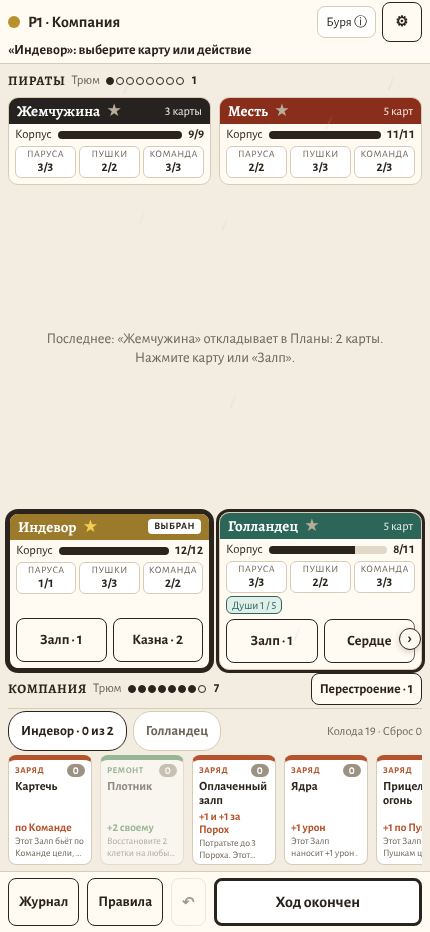
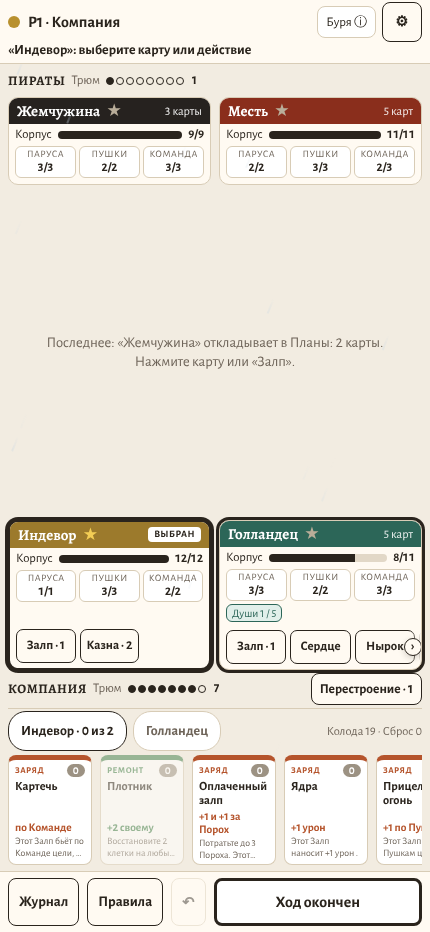
E2E: the plank buttons on a phone — 34 px seen, a 44 px press zone, one size, three in sight; screenshots, PROGRESS.md
The check «the text is whole» measures the box of the text in the button: scrollWidth also counts the invisible
press zone.

Claude-Session: https://claude.ai/code/session_01WJErPw4935JGRtmumQ5kGj

Changed region(s): [[0.0, 0.529, 0.9977, 0.7157], [0.1209, 0.3423, 0.8767, 0.4045], [0.0302, 0.6534, 0.0605, 0.6845]]

diff --git a/e2e/u3-layout.spec.ts b/e2e/u3-layout.spec.ts
@@ -155,18 +155,40 @@ for (const size of SIZES) {
         expect(new Set(rows.tops).size, 'the buttons of «Голландец» in one row').toBe(1);
         // every button of every plank of one size (two in sight), its text whole
         const btns = await page.evaluate(() =>
-          Array.from(document.querySelectorAll<HTMLElement>('.planks .plank-buttons .btn')).map((b) => ({ w: b.getBoundingClientRect().width, h: b.getBoundingClientRect().height, whole: b.scrollWidth <= b.clientWidth + 1 })),
+          Array.from(document.querySelectorAll<HTMLElement>('.planks .plank-buttons .btn')).map((b) => ({ w: b.getBoundingClientRect().width, h: b.getBoundingClientRect().height, whole: ((e) => { const r = document.createRange(); r.selectNodeContents(e); const t = r.getBoundingClientRect(), b = e.getBoundingClientRect(); return t.left >= b.left && t.right <= b.right && t.top >= b.top && t.bottom <= b.bottom; })(b) })),
         );
         expect(btns.length).toBeGreaterThanOrEqual(6);
         expect(spread(btns.map((b) => b.w)), 'the buttons of one width').toBeLessThanOrEqual(1);
         expect(spread(btns.map((b) => b.h)), 'the buttons of one height').toBeLessThanOrEqual(1);
+        expect(Math.abs(btns[0].h - 34), 'seen 34 px high').toBeLessThanOrEqual(TOL);
         expect(btns.every((b) => b.whole), 'no text cut').toBe(true);
         const sight = await page.evaluate(() => {
           const row = document.querySelector<HTMLElement>('[data-testid="plank-Г"] .plank-buttons')!;
           const r = row.getBoundingClientRect();
           return Array.from(row.querySelectorAll('.btn')).filter((b) => { const x = b.getBoundingClientRect(); return x.left >= r.left - 1 && x.right <= r.right + 1; }).length;
         });
-        expect(sight, 'two buttons of «Голландец» in sight').toBe(2);
+        expect(sight, 'three buttons of «Голландец» in sight').toBe(3);
+        // the press zone: 44 px high (21.5 px above and below the centre), and the gap between neighbours presses one
+        // of them — no miss
+        const zones = await page.evaluate(() => {
+          const out: string[] = [];
+          for (const row of Array.from(document.querySelectorAll<HTMLElement>('.planks .plank-buttons'))) {
+            const r = row.getBoundingClientRect();
+            const bs = Array.from(row.querySelectorAll<HTMLElement>('.btn')).filter((b) => { const x = b.getBoundingClientRect(); return x.left >= r.left - 1 && x.right <= r.right + 1; });
+            bs.forEach((b, i) => {
+              const x = b.getBoundingClientRect(), cx = x.left + x.width / 2, cy = x.top + x.height / 2;
+              for (const y of [cy - 21.5, cy + 21.5]) if (document.elementFromPoint(cx, y)?.closest('.btn') !== b) out.push(`${b.textContent} at ${Math.round(y - cy)}`);
+              const next = bs[i + 1];
+              if (next) {
+                const gx = (x.right + next.getBoundingClientRect().left) / 2;
+                const hit = document.elementFromPoint(gx, cy)?.closest('.btn');
+                if (hit !== b && hit !== next) out.push(`the gap after ${b.textContent}`);
+              }
+            });
+          }
+          return out;
+        });
+        expect(zones, 'every button pressed in its 44 px zone, no gap missed').toEqual([]);
         expect(rows.planks.length).toBe(2);
         expect(spread(rows.planks.map((p) => p.h)), 'the planks of a row of one height').toBeLessThanOrEqual(1);
         const rowBottoms = rows.planks.map((p) => p.rowBottom).filter((b): b is number => b !== null);

diff --git a/e2e/phone.spec.ts b/e2e/phone.spec.ts
@@ -137,7 +137,8 @@ async function phone(page: Page, name: string) {
   }
   await expect(page.getByTestId('ship-info-Г')).toHaveCount(0);
 
-  // The buttons of the Dutchman's plank (U3): one row, each at least 44 px high and its text whole; when the row is
+  // The buttons of the Dutchman's plank (U3): one row, each 34 px high to the eye with a press zone of at least 44 px,
+  // its text whole; when the row is
   // wider than the plank the arrow «›» shows and scrolls it; after it the last button is whole inside the plank and the
   // window and works. The page itself never scrolls sideways.
   const dutchman = page.getByTestId('plank-Г');
@@ -149,9 +150,10 @@ async function phone(page: Page, name: string) {
   const tops = new Set<number>();
   for (const b of await buttons.all()) {
     const box = (await b.boundingBox())!;
-    expect(box.height).toBeGreaterThanOrEqual(44);
+    expect(Math.abs(box.height - 34), 'seen 34 px high').toBeLessThanOrEqual(3);
     expect(box.y + box.height).toBeLessThanOrEqual(Math.min(plankBox.y + plankBox.height, win.height) + 1);
-    expect(await b.evaluate((e) => e.scrollWidth <= e.clientWidth + 1)).toBe(true);
+    // the text is whole inside the button (scrollWidth would count the invisible press zone ::before)
+    expect(await b.evaluate((e) => { const r = document.createRange(); r.selectNodeContents(e); const t = r.getBoundingClientRect(), b = e.getBoundingClientRect(); return t.left >= b.left && t.right <= b.right && t.top >= b.top && t.bottom <= b.bottom; }), 'the text is whole').toBe(true);
     tops.add(Math.round(box.y));
   }
   expect(tops.size, 'all the buttons in one row').toBe(1);
@@ -177,13 +179,19 @@ async function phone(page: Page, name: string) {
   expect(lb.x).toBeGreaterThanOrEqual(plankBox.x - 1);
   expect(lb.x + lb.width).toBeLessThanOrEqual(Math.min(plankBox.x + plankBox.width, win.width) + 1);
   expect(await page.evaluate(() => [document.scrollingElement!.scrollLeft, document.scrollingElement!.scrollWidth <= innerWidth])).toEqual([0, true]);
-  // every button, scrolled to, is whole inside the plank and the window
+  // every button, scrolled to, is whole inside the plank and the window, and its press zone is at least 44 px high:
+  // 21 px above and below its centre still press it
   for (const b of await buttons.all()) {
     await b.scrollIntoViewIfNeeded();
     await expect(b).toBeVisible();
     const box = (await b.boundingBox())!;
     expect(box.x).toBeGreaterThanOrEqual(plankBox.x - 1);
     expect(box.x + box.width).toBeLessThanOrEqual(Math.min(plankBox.x + plankBox.width, win.width) + 1);
+    const zone = await b.evaluate((el) => {
+      const r = el.getBoundingClientRect(), cx = r.left + r.width / 2, cy = r.top + r.height / 2;
+      return [cy - 21.5, cy + 21.5].map((y) => document.elementFromPoint(cx, y)?.closest('.btn') === el);
+    });
+    expect(zone, 'a press zone of 44 px').toEqual([true, true]);
   }
   expect(await page.evaluate(() => document.scrollingElement!.scrollLeft)).toBe(0);
   await dutchman.screenshot({ path: `${SHOTS}/${name}-4-dutchman.png` });

diff --git a/docs/PROGRESS.md b/docs/PROGRESS.md
@@ -30,8 +30,8 @@
 - **Шаг 5. Шкалы и бейджи (≥ 701 px):** шкалы — компактный блок (subgrid): клетки четырёх шкал в одной колонке, числа одной колонкой сразу за самой длинной шкалой, цифры моноширинные (`tabular-nums`); на 1920 число больше не стоит у правого края. Тело планшета — три колонки: шкалы, свободное поле (печать «Чёрной метки»), бейджи (10,5 rem). Бейджи — ширина по тексту, одна высота (шаг строк шкал), все у одного правого края (правка пользователя перед слиянием: не растягивать); длиннее колонки — «…», полное имя Легенды в `title` (у сыгранной тоже) и по нажатию. Строки шкал больше не растягиваются под колонку бейджей. Телефон: бейджи одной высоты.
 - **Шаг 6. Текст карт в руке** — по целым строкам с «…»: текст занимает остаток высоты, `Hand.tsx` меряет, сколько целых строк влезает, и ставит `line-clamp` и высоту (имя в 1 или 2 строки оставляет разное место). Полный текст — по нажатию, как раньше.
 - **Шаг 7. «Чёрная метка» на планшете** (по правке пользователя перед слиянием — печать, а не водяной знак): маленькая чёткая клякса (MARK_SVG, как в чипе), `opacity 0,9`, повёрнута на −12°. Компьютер — 40 px в свободном поле между числами шкал и бейджами (на узком планшете — не шире поля); телефон — 28 px справа в строке статусов, под шапкой (правый верхний угол тела занят числом Корпуса). Ничего не закрывает. Ждёт скрытой вместе с чипом, пока летит клякса клипа; `statusFx` ставит её в момент посадки (scale 1,6 → 1 и opacity, «game:» в `misc.ts`); уходит со статусом (у потопленного нет). Без слоя (reduced-motion, «мгновенно») — сразу по состоянию, без анимации. Чип «Чёрная метка +2» и ядра «в метку» — как были. Тест — `tests/fx-dom.test.ts` (3 новых).
-- **Шаг 7б. Кнопки планшета на телефоне** (правка пользователя перед слиянием): одна строка с прокруткой пальцем, без полосы; пока справа есть что листать — затухание и стрелка «›» у правого края (нажатие листает строку; долистали — стрелка и затухание пропадают; `useMoreRight` в `Table.tsx`, порог 8 px — отступ строки). Прокрутка не листает стол (`overscroll-behavior-x: contain`). Все кнопки всех планшетов одного размера (решение пользователя): ширина — половина видимой строки (две в поле зрения, как у «Индевора»), высота 44 px, текст целый; у «Голландца» видны две, остальные — прокруткой (с прилипанием к кнопке) и стрелкой «›» (листает на ширину строки). Затухание и стрелка узкие, у самого края — текст второй кнопки не закрывают. Планшеты ряда одной высоты (по решению пользователя — как было), строка кнопок прижата к низу планшета: кнопки обоих кораблей на одной линии. Компьютер не менялся (стрелки там нет). `e2e/phone.spec.ts` (P7) переписан под новое по решению пользователя: кнопки ≥ 44 px, текст целый, все в одной строке; стрелка видна, если строка не влезает; после нажатий на стрелку «Душа → Корп» целиком в планшете и окне и работает (Души меняются); каждая кнопка после прокрутки к ней — целиком в планшете и окне; страница вбок не прокручивается. Снимок `p7/phone-4-dutchman.png` переснят.
-- **Шаг 8. e2e** `e2e/u3-layout.spec.ts` (только Chromium, 9 тестов, допуски ±3 px): против ботов на трёх размерах — в каждом кадре сводка не ближе 8 px к баннеру и не на «Последнее: …», «Ваш ход» по центру зазора; группа середины, панель Залпа и «Ход окончен» по центру зазора; ярлыки шапок по центру с именем, без transform, имя целое; бейджи одной высоты у общего правого края, числа шкал в одной колонке; на 430 кнопки «Голландца» в одной строке, видны две, все кнопки всех планшетов одной ширины и высоты (±1 px), текст целый, нижние планшеты одной высоты (±1 px), низ строк кнопок на одной линии; «Чёрная метка» — скрыта в полёте, потом видна, opacity 0,85–0,95, повёрнута, ≈ 40 px между числами и бейджами (компьютер) / ≈ 28 px справа в строке статусов (телефон), не пересекает числа, клетки, полоску, подписи, бейджи, кнопки, чипы и шапку; окно Реакций — только снимок. Снимки — `docs/screenshots/u3/after/` (те же имена, что «до», плюс `summary-*`).
+- **Шаг 7б. Кнопки планшета на телефоне** (правка пользователя перед слиянием): одна строка с прокруткой пальцем, без полосы; пока справа есть что листать — затухание и стрелка «›» у правого края (нажатие листает строку; долистали — стрелка и затухание пропадают; `useMoreRight` в `Table.tsx`, порог 8 px — отступ строки). Прокрутка не листает стол (`overscroll-behavior-x: contain`). Все кнопки всех планшетов одного размера (решения пользователя): треть видимой строки (три в поле зрения), видимая высота 34 px, шрифт 13 px; зона нажатия 44 px — невидимое `::before` на 5 px выше и ниже и на полпромежутка в стороны (соседние нажимаются без промахов; строка с отступом 5 px сверху и снизу, чтобы зона не обрезалась). У «Голландца» видны три, четвёртая — прокруткой (с прилипанием к кнопке) и стрелкой «›» (листает на ширину строки). Текст целый: «Душа→Корп» шире трети строки, поэтому переносится после «→» (`<wbr>` в `Button`, на компьютере `nowrap` его не использует). Затухание (10 px) и стрелка (18 px) — у самого края, буквы не закрывают. Планшеты ряда одной высоты (по решению пользователя — как было), строка кнопок прижата к низу планшета: кнопки обоих кораблей на одной линии. Компьютер не менялся (стрелки там нет). `e2e/phone.spec.ts` (P7) переписан под новое по решению пользователя: кнопки ≥ 44 px, текст целый, все в одной строке; стрелка видна, если строка не влезает; после нажатий на стрелку «Душа → Корп» целиком в планшете и окне и работает (Души меняются); каждая кнопка после прокрутки к ней — целиком в планшете и окне; страница вбок не прокручивается. Снимок `p7/phone-4-dutchman.png` переснят.
+- **Шаг 8. e2e** `e2e/u3-layout.spec.ts` (только Chromium, 9 тестов, допуски ±3 px): против ботов на трёх размерах — в каждом кадре сводка не ближе 8 px к баннеру и не на «Последнее: …», «Ваш ход» по центру зазора; группа середины, панель Залпа и «Ход окончен» по центру зазора; ярлыки шапок по центру с именем, без transform, имя целое; бейджи одной высоты у общего правого края, числа шкал в одной колонке; на 430 кнопки «Голландца» в одной строке, видны три, все кнопки всех планшетов одной ширины и высоты (±1 px), видимая высота 34 px, зона нажатия 44 px и промежуток между соседями без промаха, текст целый, нижние планшеты одной высоты (±1 px), низ строк кнопок на одной линии; «Чёрная метка» — скрыта в полёте, потом видна, opacity 0,85–0,95, повёрнута, ≈ 40 px между числами и бейджами (компьютер) / ≈ 28 px справа в строке статусов (телефон), не пересекает числа, клетки, полоску, подписи, бейджи, кнопки, чипы и шапку; окно Реакций — только снимок. Снимки — `docs/screenshots/u3/after/` (те же имена, что «до», плюс `summary-*`).
 - **Проверки:** `typecheck` — без ошибок; `npm test` — 617 в 48 файлах; `build` — собран, в `dist/` нет `fxScene`; `e2e/u3-layout.spec.ts` локально — 9 из 9 (своим конфигом без игрового сервера). sim, `build:server` и полный e2e по условию задачи не запускались — их проверяет CI.
 
 ### Не сделано (U3)
